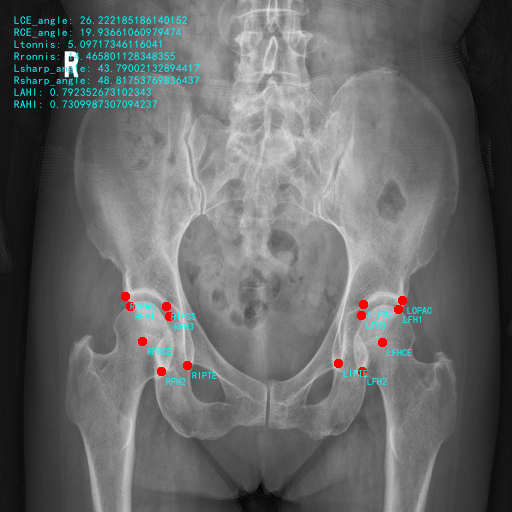
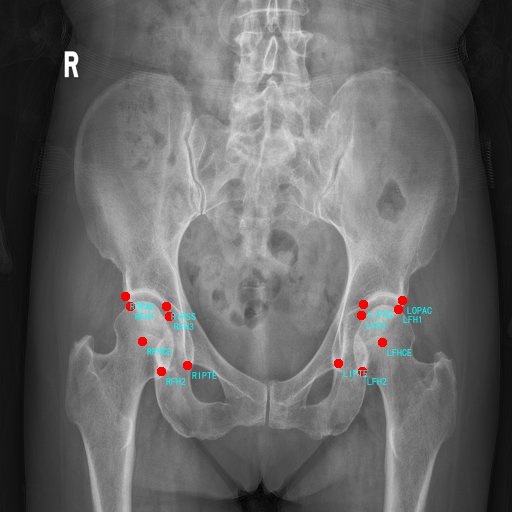
v1.0

Changed region(s): [[0.0312, 0.0312, 0.4062, 0.2188]]

diff --git a/templates/base.html b/templates/base.html
@@ -19,51 +19,88 @@
 
         </div>
     </div>
-    <div class="container">
-        <div>
+{#    <div class="modal fade" id="loading" tabindex="-1" role="dialog" aria-labelledby="myModalLabel" data-backdrop='static'>#}
+{#        <div class="modal-dialog" role="document">#}
+{#            <div class="modal-content">#}
+{#                <div class="modal-header">#}
+{#                    <h4 class="modal-title" id="myModalLabel">提示</h4>#}
+{#                </div>#}
+{#                <div class="modal-body">#}
+{#                    请稍候。。。<span id="result"></span>#}
+{#                </div>#}
+{#            </div>#}
+{#        </div>#}
+{#    </div>#}
 
-            {% block uploadpart %}
+
+    <div  class="row" style="padding: 10px ; background-color:#eee;" >
+{#        <div style="background-color:#eee; padding-top: 20px; width: 100%">#}
+
+        {% block uploadpart %}
 {#            使用block从image.html中调用#}
-            {% endblock %}
+        {% endblock %}
+        {% if  img_with_dots %}
+        <div class="col-3">
 
-            {% if  img_with_dots %}
-                <div class="col-6 column" style="background-color:#eee; padding-top: 20px;">
-                    <h4>
-                        分析结果
-                    </h4>
+            <h4>
+                分析结果
+            </h4>
 
-                    <table class="table table-bordered">
-                        {% if angle_value %}
-                            <tr>
-                                <th>指标</th>
-                                <th>参考值</th>
-                                <th>测量值-左</th>
-                                <th>测量值-右</th>
-                            </tr>
-                            {% for name,ref,left,right in angle_value %}
-                                <tr>
-                                    <td> {{ name }} </td>
-                                    <td> {{ ref }} </td>
-                                    <td> {{ left }} </td>
-                                    <td> {{ right }} </td>
-                                </tr>
-                            {% endfor %}
-                        {% endif %}
+            <table class="table table-bordered">
+                {% if angle_value %}
+                    <tr>
+                        <th>指标</th>
+                        <th>参考值</th>
+                        <th>测量值-左</th>
+                        <th>测量值-右</th>
+                    </tr>
+                    {% for name,ref,left,right in angle_value %}
+                        <tr>
+                            <td> {{ name }} </td>
+                            <td> {{ ref }} </td>
+                            <td> {{ left }} </td>
+                            <td> {{ right }} </td>
+                        </tr>
+                    {% endfor %}
+                {% endif %}
 
-                    </table>
-
-                </div>
-                <div class="col-6 column" style="background-color:#eee; padding-top: 20px;">
-                    <img src="/static/images/{{img_with_dots}}" alt="" style="width: 512px; height: 512px">
-
-                </div>
-            {% endif %}
+            </table>
         </div>
+
+        <div class="col-4">
+            <img src="/static/images/{{img_with_dots}}" alt="" style="width: 512px; height: 512px">
+        </div>
+
+
+
+
+
+
+        {% endif %}
+
     </div>
 
     <script src="/static/js/jquery.3.6.min.js"></script>
     <script src="https://cdnjs.cloudflare.com/ajax/libs/popper.js/1.14.7/umd/popper.min.js"></script>
     <script src="https://stackpath.bootstrapcdn.com/bootstrap/4.3.1/js/bootstrap.min.js"></script>
+    <script>
+        {#//显示#}
+        {#$('#loading').modal('show');#}
+        {#//影藏#}
+        {#$('#loading').modal('hide');#}
+
+
+        $(function() {
+            $(".btn").click(function(){
+                $(this).button('loading').delay(10000).queue(function() {
+                 $(this).button('reset');
+                // $(this).dequeue();
+                });
+            });
+        });
+
+    </script>
+
 </body>
 
 </html>

diff --git a/templates/image.html b/templates/image.html
@@ -1,39 +1,39 @@
 {% extends "base.html" %}
 {% block uploadpart %}
-    <div class="col-8 column">
-        <div style="background-color:#eee; padding: 20px; ">
+
+    <div class="col-5">
 {#            <h4 class="text-left">#}
 {#                Upload image#}
 {#            </h4>#}
-            <form class="form-inline" role="form" action={{ url_for("detect") }} enctype='multipart/form-data'
-                method='GET'>
-                <div class="form-group" style="width: 60%;">
-                        {% if imgname %}
-                            <img src="/static/images/{{imgname}}" alt="" style="width: 512px; height: 512px">
-                            <input class="d-none" type="text" name="imgname" value="{{imgname}}" required class=""/>
-                        {% else %}
-                            <img src="/static/images/no_image.png" alt="" style="width: 512px; height: 512px">
-                        {% endif %}
-                </div>
-
-                {% if imgname %}
-                    <div class="form-group">
-                        <input type="submit" value="开始分析" class="btn btn-primary btn"
-                            style="margin-left: 10%;" />
-                    </div>
-                {% endif %}
-
-            </form>
-            <div style="margin-top:10px;margin-bottom: 10px;">
-                <form class="form-inline" role="form" action={{ url_for("upload") }} enctype='multipart/form-data' method='POST'>
-                    <div class="form-group">
-                        <input type="file" name="image" id="inputfile" required />
-                    </div>
-                    <div class="form-group">
-                        <input type="submit" value="上传图片" class="btn btn-primary" />
-                    </div>
+        <form class="form-inline" role="form" action={{ url_for("detect") }} enctype='multipart/form-data'
+            method='GET'>
+            <div class="form-group">
+                    {% if imgname %}
+                        <img src="/static/images/{{imgname}}" alt="" style="width: 512px; height: 512px">
+                        <input class="d-none" type="text" name="imgname" value="{{imgname}}" required class=""/>
+                    {% else %}
+                        <img src="/static/images/no_image.png" alt="" style="width: 512px; height: 512px">
+                    {% endif %}
             </div>
-            </form>
+
+            {% if imgname %}
+                <div class="form-group">
+                    <input type="submit" value="开始分析" class="btn btn-success"
+                        style="margin-left: 10%;" data-loading-text="分析中"/>
+                </div>
+            {% endif %}
+
+        </form>
+        <div style="margin-top:10px;margin-bottom: 10px;">
+            <form class="form-inline" role="form" action={{ url_for("upload") }} enctype='multipart/form-data' method='POST'>
+                <div class="form-group">
+                    <input type="file" name="image" id="inputfile" required />
+                </div>
+                <div class="form-group">
+                    <input type="submit" value="上传图片" class="btn btn-primary" />
+                </div>
         </div>
+        </form>
+
     </div>
 {% endblock %}

diff --git a/UALD/universal_landmark_detection/evaluation.py b/UALD/universal_landmark_detection/evaluation.py
@@ -259,7 +259,7 @@ def evaluate(input_path, output_path, phase, save_img=True, assigned=False, IS_D
 
         text_dic = {'LCE_angle': 90 - LCE_angle, 'RCE_angle': 90 - RCE_angle, 'Ltonnis': Ljdqxj, 'Rronnis': Rjdqxj,
                     'Lsharp_angle': Lsharp_angle, 'Rsharp_angle': Rsharp_angle, 'LAHI': LAHI, 'RAHI': RAHI}
-        draw_text_index(img, text_dic, DRAW_TEXT_SIZE_FACTOR[dataset])
+        # draw_text_index(img, text_dic, DRAW_TEXT_SIZE_FACTOR[dataset])
 
         before_json = name.rfind('.')
         file_name = name[:before_json]
